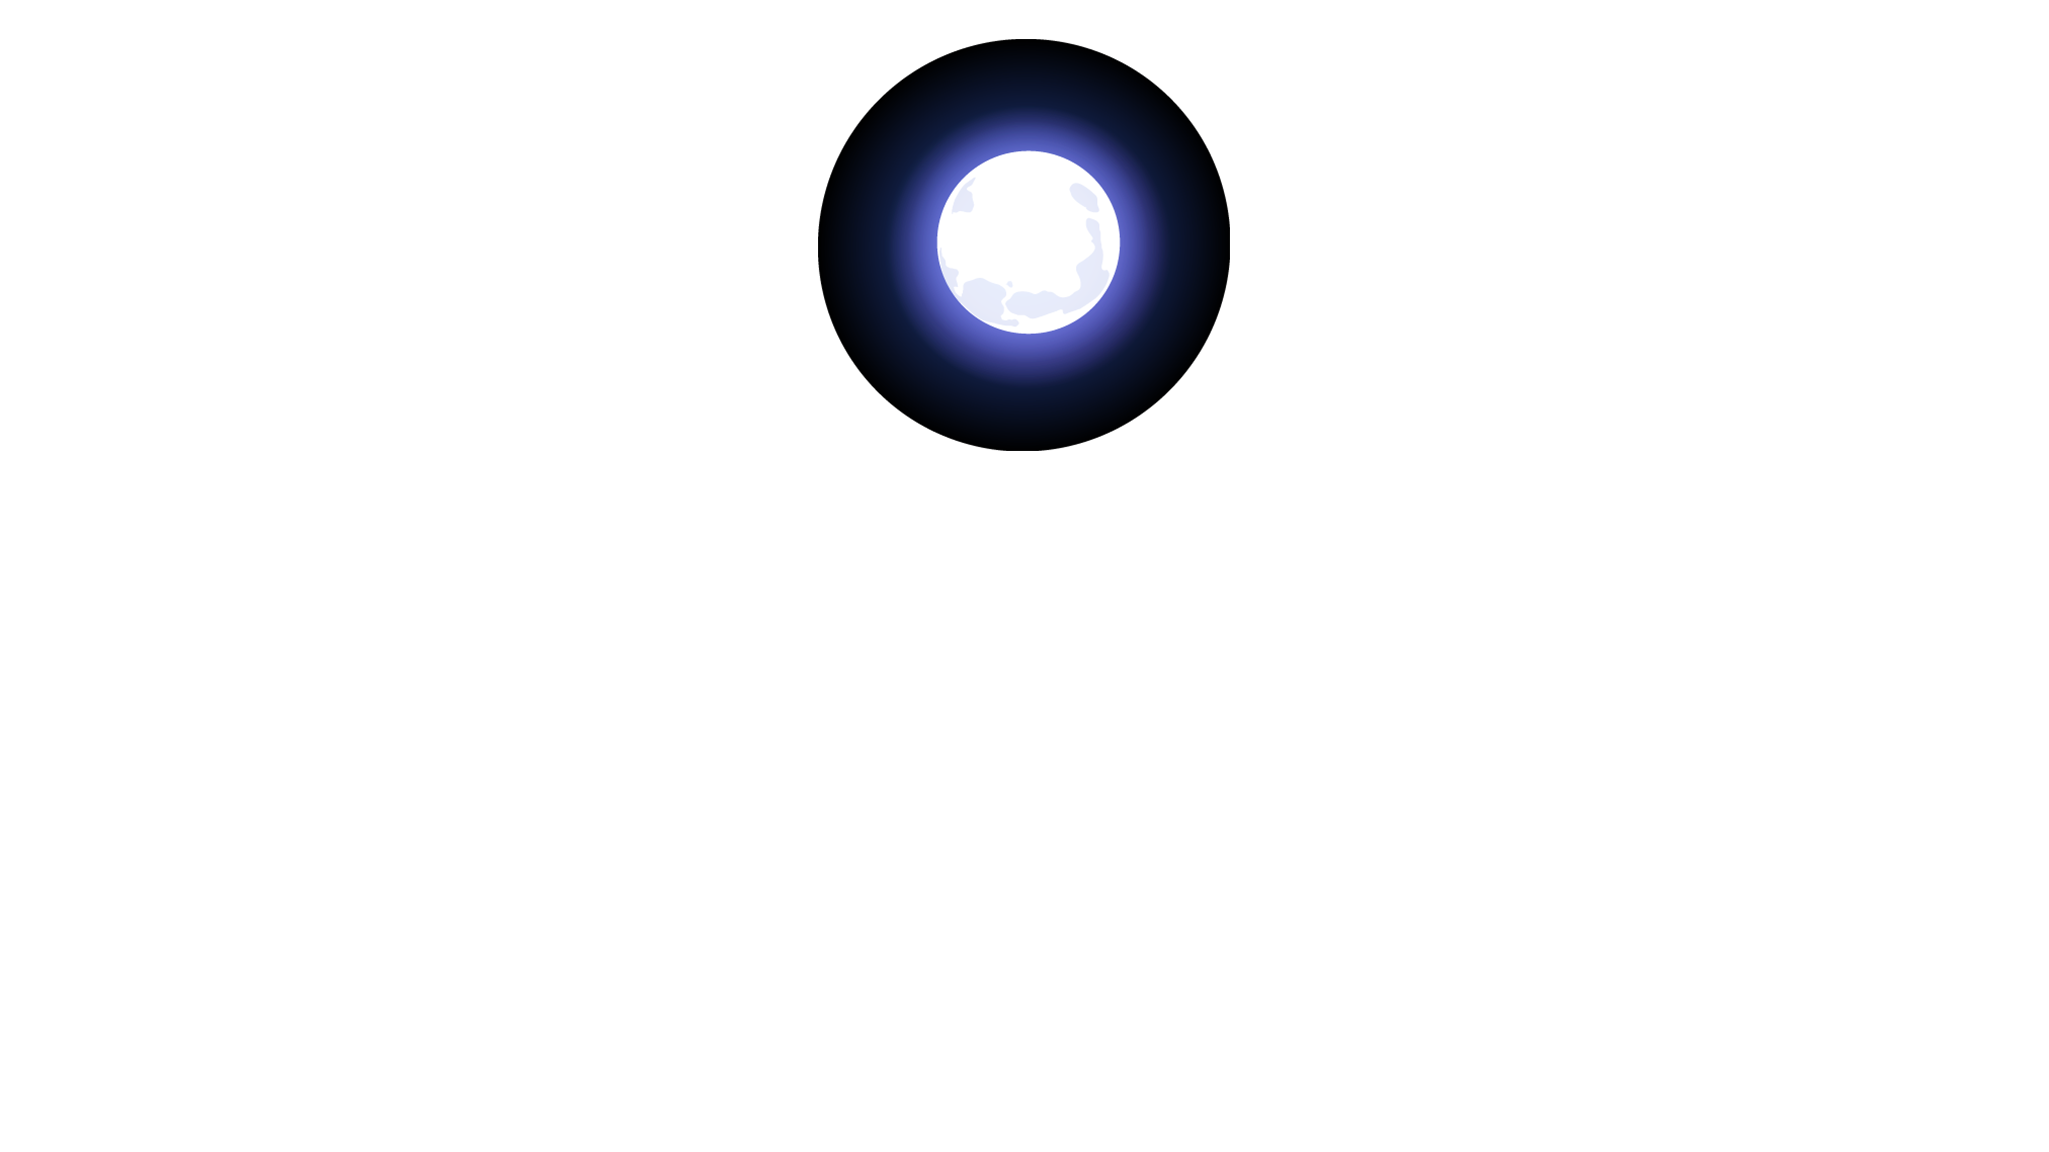
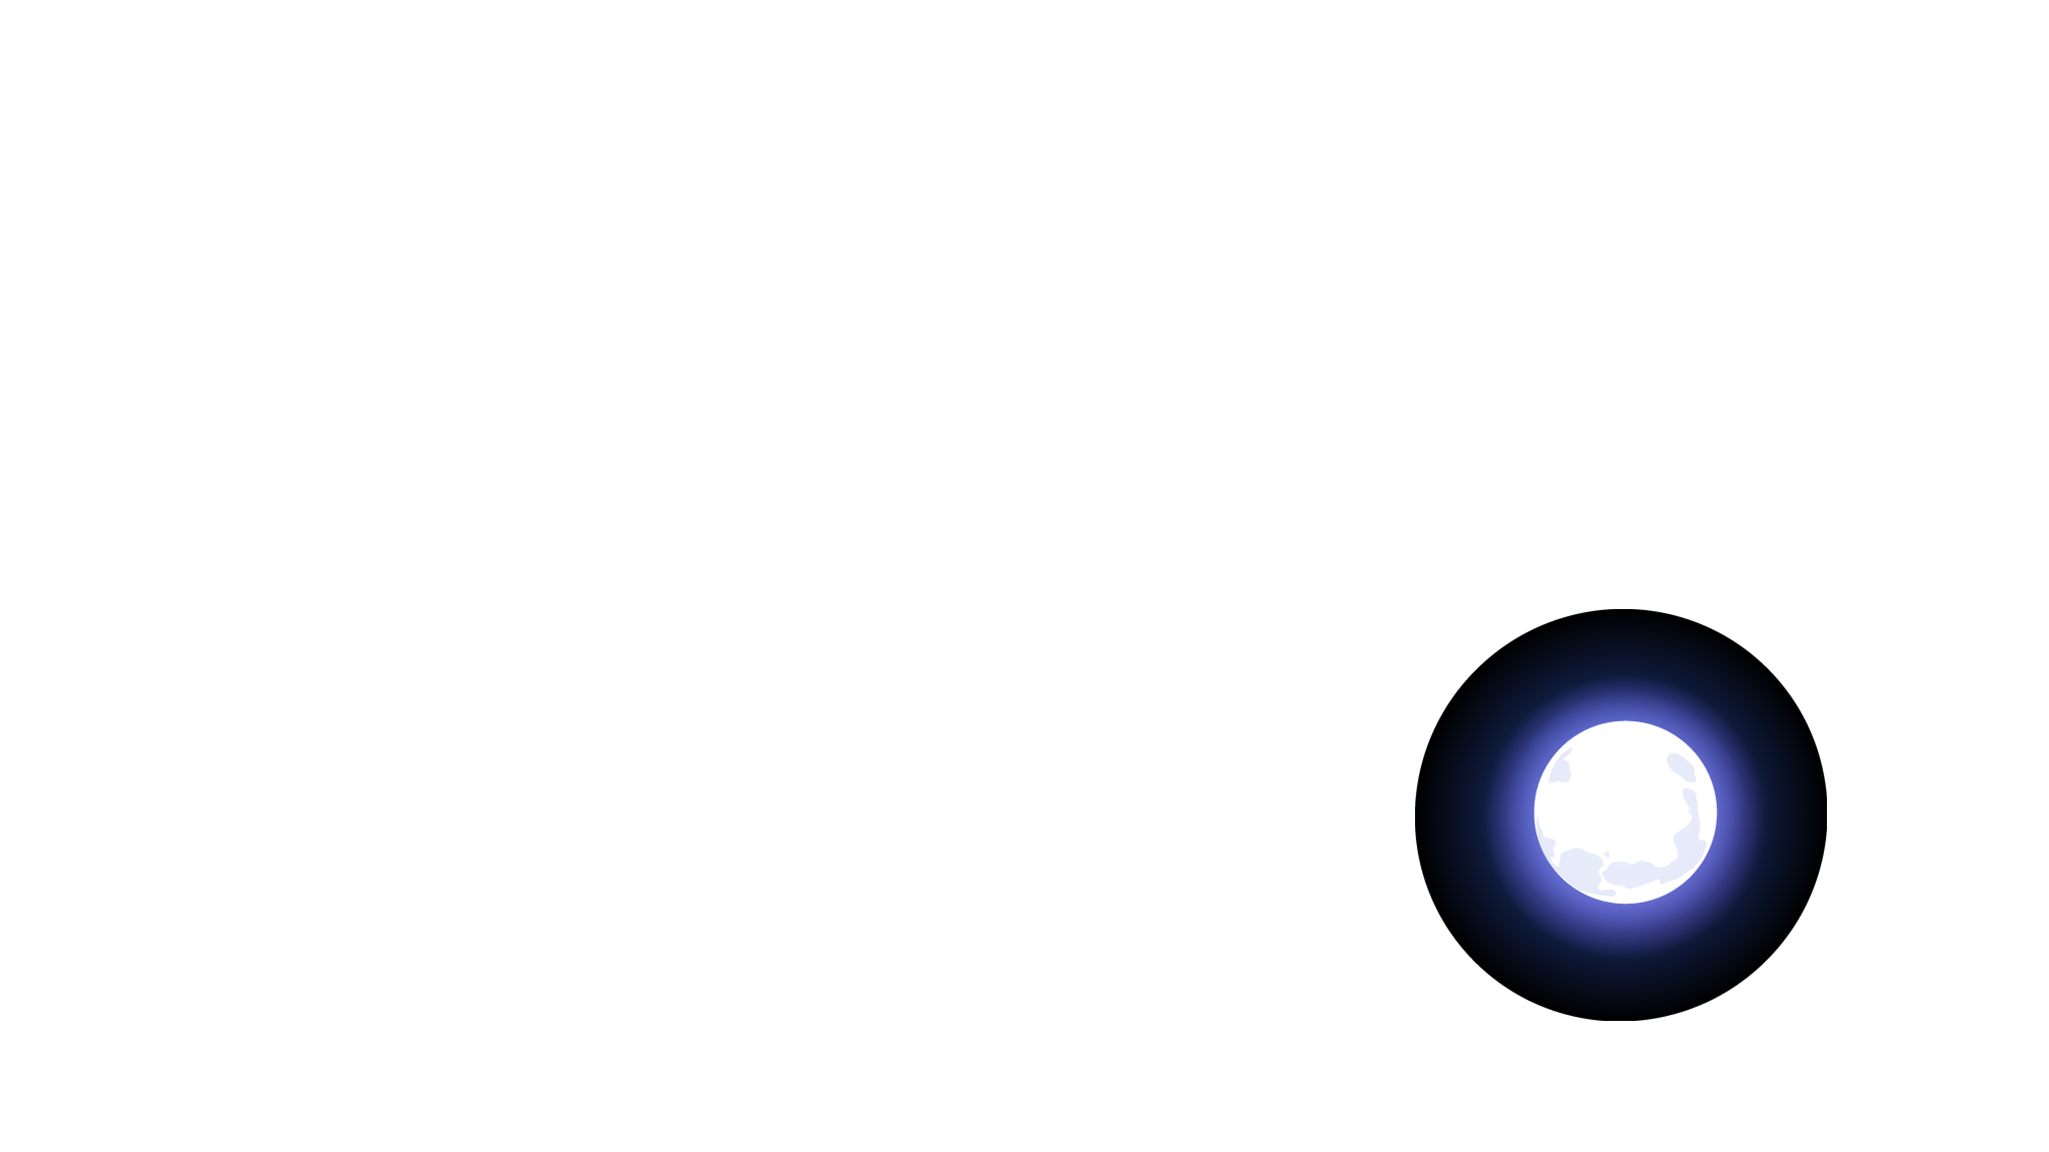
perubahan dari ali

Changed region(s): [[0.6872, 0.5312, 0.9058, 0.9062], [0.3748, 0.0312, 0.6247, 0.4062]]

diff --git a/css/season.css b/css/season.css
@@ -1,21 +1,18 @@
 @import url('https://fonts.googleapis.com/css?family=Poppins:300,400,500,600,700,800,900&display=swap');
-*
-{
+* {
 	margin : 0;
 	padding: 0;
 	box-sizing: border-box;
 	font-family: 'Poppins', sans-serif; 
 	scroll-behavior: smooth;
 }
-body
-{
+body {
 	min-height:  100vh;
 	overflow-x: hidden;
 	background: linear-gradient(#2b1055,#7597de);
 }
-header
-{
-	position: absolute;
+header {
+	position: fixed;
 	top : 0;
 	left: 0;
 	width: 100%;
@@ -25,40 +22,34 @@ header
 	align-items: center;
 	z-index: 10000;
 }
-header .logo
-{
+header .logo {
 	color: #fff;
 	font-weight: 700;
 	text-decoration: none;
 	font-size: 2em;
 	letter-spacing: 2px;
 }
-header ul
-{
+header ul {
 	display: flex;
 	justify-content: center;
 	align-items: center;
 }
-header ul li
-{
+header ul li {
 	list-style: none;
 	margin-left: 20px;
 }
-header ul li a
-{
+header ul li a {
 	text-decoration: none;
 	padding: 6px 15px;
 	color: #fff;
 	border-radius: 20px;
 }
 header ul li a:hover ,
-header ul li a.active
-{
+header ul li a.active {
 	background: #fff;
 	color: #2b1055;
 }
-section
-{
+section {
 	position: relative;
 	width: 100%;
 	height: 100vh;
@@ -68,8 +59,7 @@ section
 	align-items: center;
 	overflow: hidden;
 }
-section::before
-{
+/*section::before {
 	content: '';
 	position: absolute;
 	bottom: 0;
@@ -77,27 +67,30 @@ section::before
 	height: 100px;
 	background: linear-gradient(to top, #1c0522,transparent);
 	z-index: 1000;
+}*/
+section img#mountains_front_malam, section img#mountains_behind_malam {
+	position: fixed;
 }
-section img
-{
+section img {
 	position: absolute;
-	top: 0;
 	left: 0;
 	width: 100%;
 	height: 100%;
 	object-fit: cover;
 	pointer-events: none;
 }
-section img#moon
-{
-	mix-blend-mode: screen;
+section img:not(#moon) {
+	top: 0;
 }
-section img#mountains_front_malam
-{
+section img#moon {
+	bottom: 0;
+	mix-blend-mode: screen;
+	transform: rotate(0deg);
+}
+section img#mountains_front_malam {
 	z-index: 10;
 }
-#text
-{
+#text {
 	position: absolute;
 	right: -350px;
 	color: #fff;
@@ -105,8 +98,7 @@ section img#mountains_front_malam
 	font-size: 7.5vw;
 	z-index: 9;
 }
-#btn
-{
+#btn {
 	text-decoration: none;
 	display: inline-block;
 	padding: 8px 30px;
@@ -117,20 +109,17 @@ section img#mountains_front_malam
 	z-index: 9;
 	transform: translate(8px);
 }
-.sec
-{
+.sec {
 	position: relative;
 	padding: 100px;
-	background: #1c0522;
+	/*background: #1c0522;*/
 }
-.sec h2
-{
+.sec h2 {
 	font-size: 3.5em;
 	margin-bottom: 10px;
 	color: #fff;
 }
-.sec p
-{
+.sec p {
 	font-size: 1em;
 	color: #fff;
 }

diff --git a/index.html b/index.html
@@ -3,15 +3,16 @@
 <head>
 <title>Kelompok 4 . Pemrograman Internet</title>
 <link rel="stylesheet" type="text/css" href="css/season.css">
+<script src="https://code.jquery.com/jquery-3.6.0.min.js" integrity="sha256-/xUj+3OJU5yExlq6GSYGSHk7tPXikynS7ogEvDej/m4=" crossorigin="anonymous"></script>
 </head>
 <body>
 	<header>
-		<a href="#" class="logo">weBSITE</a>
+		<a href="#" class="logo">Season</a>
 		<ul>
-			<li><a href="#" class="active">Home</a></li>
-			<li><a href="#">About</a></li>
-			<li><a href="#">Work</a></li>
-			<li><a href="#">Contact</a></li>
+			<li><a href="#" class="active">Night</a></li>
+			<li><a href="#">Noon</a></li>
+			<li><a href="#">Noon Rain</a></li>
+			<li><a href="#">Night Rain</a></li>
 		</ul>
 	</header>
 	<section>
@@ -33,25 +34,6 @@
 			  7.TENGKU RAFLI FATA
 		</p>
 	</div>
-	<script>
-		let stars = document.getElementById('stars');
-		let moon = document.getElementById('moon');
-		let mountains_behind_malam = document.getElementById('mountains_behind_malam');
-		let text = document.getElementById('text');
-		let btn = document.getElementById('btn');
-		let mountains_front_malam = document.getElementById('mountains_front_malam');
-		let header = document.querySelector('header');
-		window.addEventListener('scroll', function(){
-			let value = window.scrollY;
-			stars.style.left = value * 0.25 + 'px';
-			moon.style.top = value * 1.05 + 'px';
-			mountains_behind_malam.style.top = value * 0.5 + 'px';
-			mountains_front_malam.style.top = value * 0 + 'px';
-			text.style.marginRight = value * 4 + 'px';
-			text.style.marginTop = value * 1.5 + 'px';
-			btn.style.marginTop = value * 1.5 + 'px';
-			header.style.top = value * 0.5 + 'px';
-		})
-	</script>
+	<script type="text/javascript" src="javascript/season.js"></script>
 </body>
 </html>

diff --git a/javascript/season.js b/javascript/season.js
@@ -1,0 +1,25 @@
+$(document).ready(function() {
+	let windowHeight = $(window).height();
+	let satuanDeg = windowHeight / 360;
+	let seasons = ["night", "noon", "noonRain", "nightRain"];
+
+	for (var i = 0; i < seasons.length; i++) {
+		$('<div id="trs-'+i+'" data-trs="'+seasons[i]+'" style="height: '+windowHeight+'px"></div>').insertBefore('#sec')
+	}
+
+	$(window).scroll(function(event) {
+		// let stars = ;
+		// let mountains_behind_malam = document.getElementById('mountains_behind_malam');
+		// let mountains_front_malam = document.getElementById('mountains_front_malam');
+		let valScrlTop = $(this).scrollTop();
+		satuanDeg = satuanDeg + ((windowHeight - valScrlTop) / 360);
+
+		$('#stars').css('bottom', '-'+valScrlTop * 0.25 + 'px');
+		// mountains_behind_malam.style.top = valScrlTop * 0.5 + 'px';
+		// mountains_front_malam.style.top = valScrlTop * 0 + 'px';
+		$('#moon').css('transform', 'rotate(-'+satuanDeg+'deg)');
+		$('#text').css('margin-right', valScrlTop * 4 + 'px');
+		$('#text').css('margin-top', valScrlTop * 1.5 + 'px');
+		$('#btn').css('margin-top', valScrlTop * 1.5 + 'px');
+	});
+});
